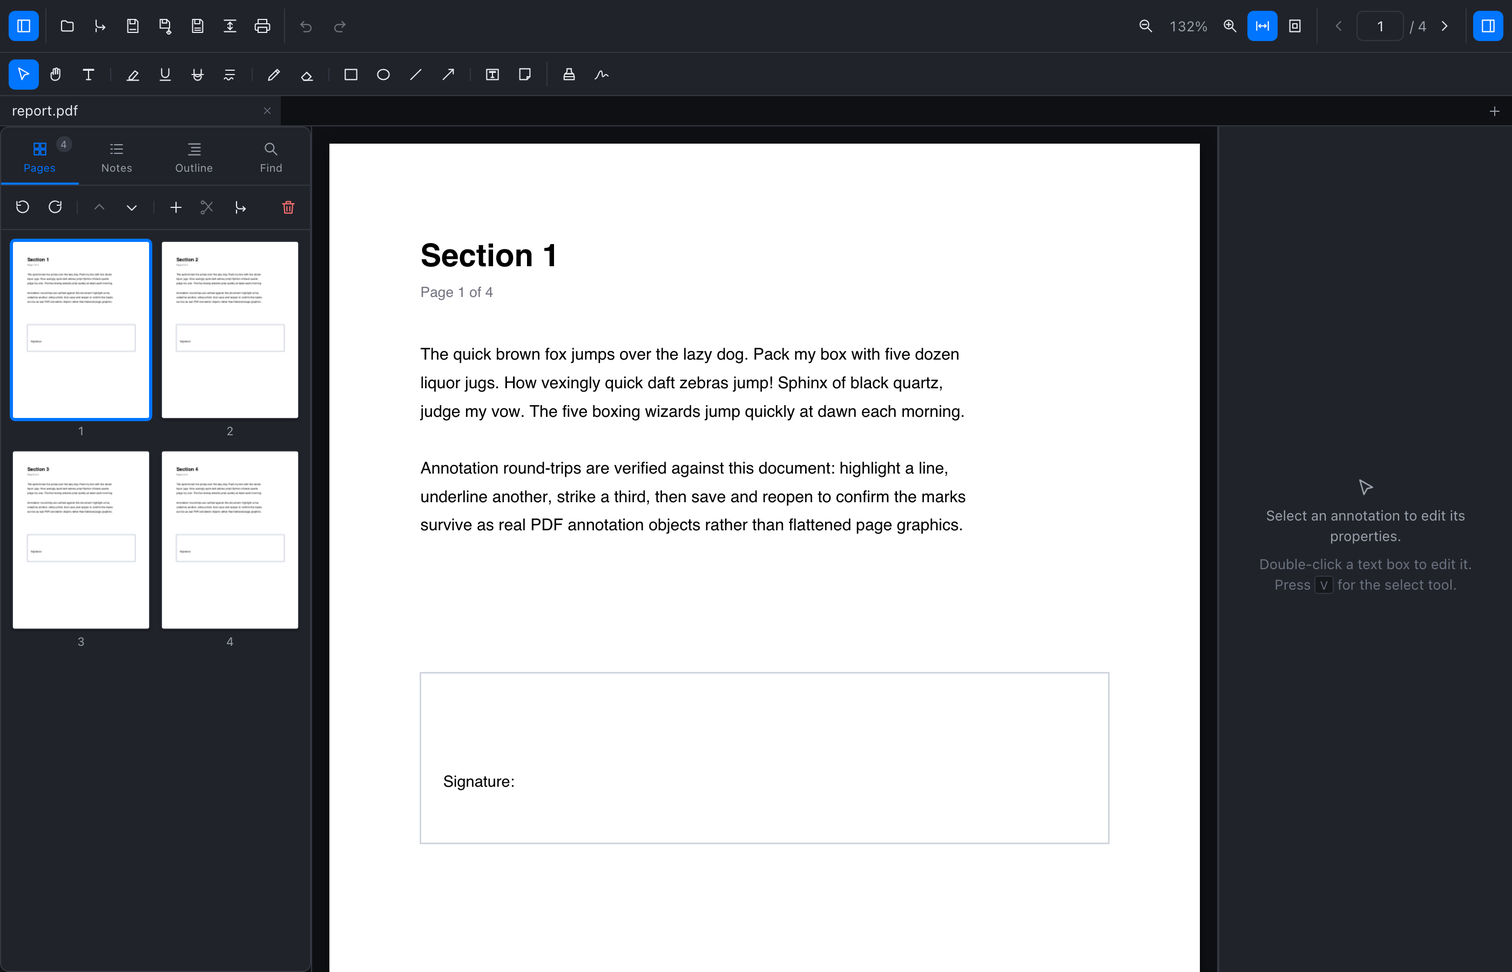
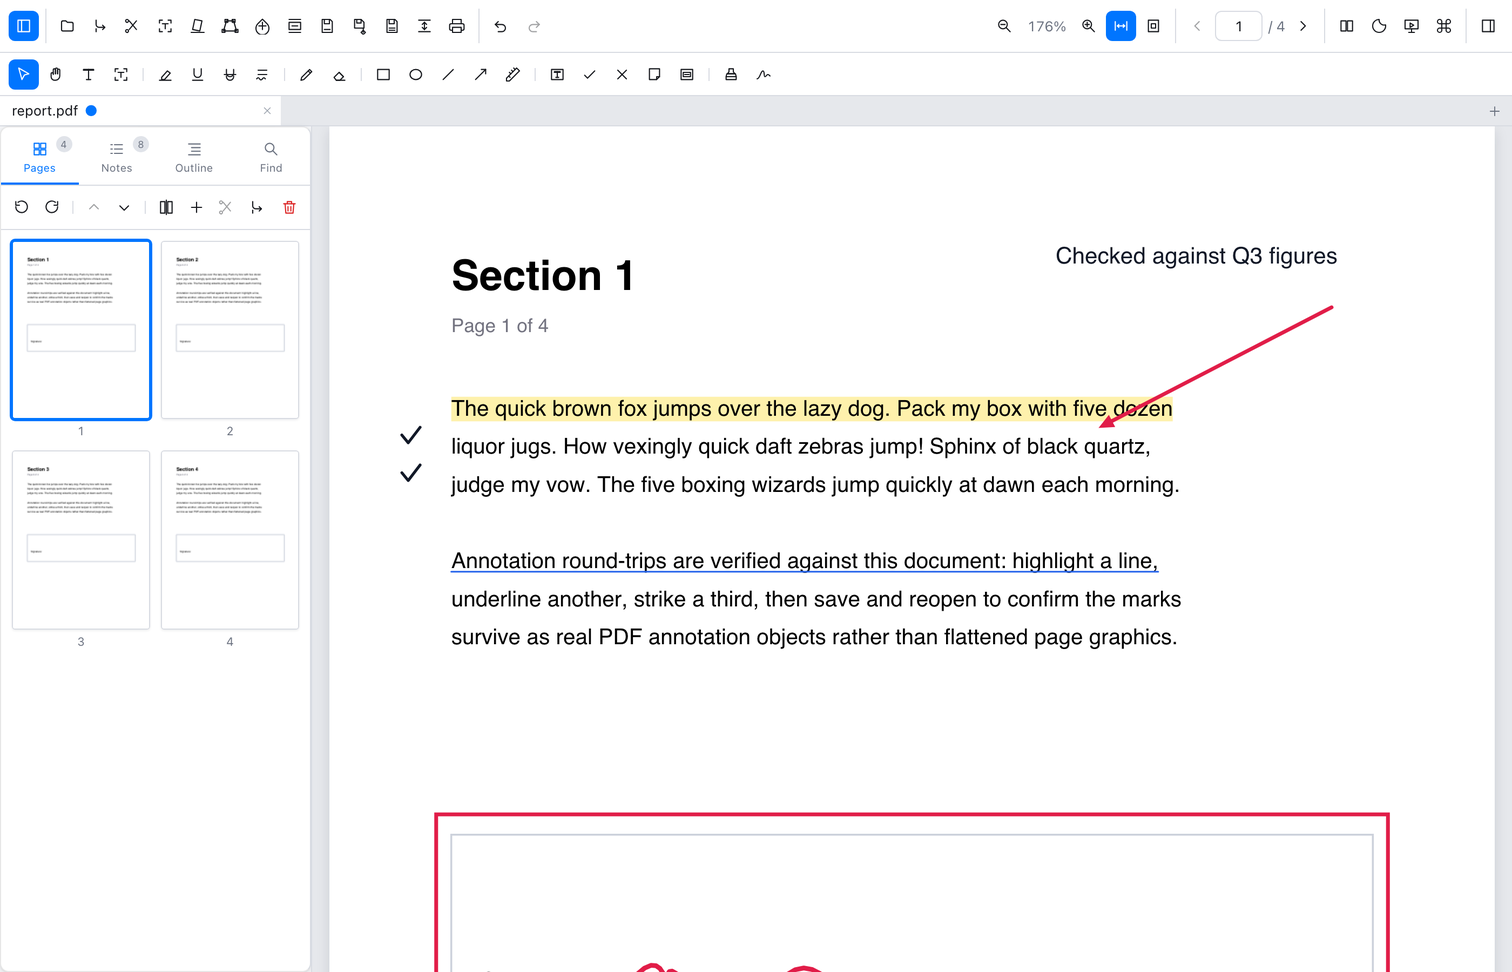
docs: Update README and showcase for 1.0.2
Covers everything since 0.5.1: OCR and searchable scans, straightening and
perspective correction, true redaction, filling printed forms, annotation
editing and defaults, workstation tools, and automatic updates. Replaces
the showcase, where three cards shared one image, with eight current
screenshots, and corrects the shortcut and download tables.

diff --git a/README.md b/README.md
@@ -1,9 +1,9 @@
 # VrushPDF
 
 <p align="center">
-  <strong>A blazingly fast, lightweight, and privacy-first desktop PDF editor & viewer.</strong>
+  <strong>A fast, lightweight, privacy-first desktop PDF editor for macOS, Windows and Linux.</strong>
   <br />
-  <em>Native look and feel on macOS, Windows, and Linux. Zero bloat. 100% offline.</em>
+  <em>Annotate, fill and sign, make scans searchable, and assemble documents, entirely offline.</em>
 </p>
 
 <p align="center">
@@ -15,50 +15,80 @@
 </p>
 
 <p align="center">
-  <img src="docs/screenshots/01-editor-overview.png" alt="VrushPDF Workspace" width="880" />
+  <img src="docs/screenshots/02-markup-studio.png" alt="VrushPDF annotating a document" width="880" />
 </p>
 
 ---
 
-## 📸 Interface & Feature Showcase
+## 🆕 New in 1.0
+
+- **🔎 OCR, built in and offline**: make scanned PDFs searchable and selectable, or drag a box over any scan to copy its text. English, German, French, Spanish, Italian and Dutch.
+- **📐 Scan clean-up**: straighten crooked scans automatically, and correct the perspective of phone photos of documents, with the corners found for you.
+- **☑ Fill any form**: tick and cross marks and text boxes for printed forms that have no fillable fields.
+- **✍ Faster annotating**: resize anything with handles, copy and paste annotations, type exact sizes, and save any annotation's look as the default for its kind.
+- **🔄 Automatic updates**: VrushPDF checks for new versions and installs them for you.
+
+---
+
+## 📸 Feature Showcase
 
 <div align="center">
 
 <table>
   <tr>
     <td align="center" width="50%">
-      <a href="docs/screenshots/01-editor-overview.png"><img src="docs/screenshots/01-editor-overview.png" alt="Document Viewer & Workspace" /></a>
+      <a href="docs/screenshots/01-editor-overview.png"><img src="docs/screenshots/01-editor-overview.png" alt="Document viewer and workspace" /></a>
       <br />
-      <b>📖 Document Viewer & Multi-Tab Workspace</b>
-      <p><em>Continuous virtualized scrolling, drag-and-drop thumbnail sidebar, whole-document search</em></p>
+      <b>📖 Viewer & Multi-Tab Workspace</b>
+      <p><em>Smooth continuous scrolling, page thumbnails with drag-and-drop reordering, search and bookmarks</em></p>
     </td>
     <td align="center" width="50%">
-      <a href="docs/screenshots/02-markup-studio.png"><img src="docs/screenshots/02-markup-studio.png" alt="Annotation & Markup Studio" /></a>
+      <a href="docs/screenshots/02-markup-studio.png"><img src="docs/screenshots/02-markup-studio.png" alt="Annotation and markup studio" /></a>
       <br />
       <b>✍ Annotation & Markup Studio</b>
-      <p><em>Real text highlight, smooth pen, geometric shapes, sticky notes & live properties inspector</em></p>
+      <p><em>Highlights, shapes, arrows, text boxes, ticks and freehand ink, with a live properties panel</em></p>
     </td>
   </tr>
   <tr>
     <td align="center" width="50%">
-      <a href="docs/screenshots/03-forms-and-signatures.png"><img src="docs/screenshots/03-forms-and-signatures.png" alt="Interactive Forms & Reusable Signatures" /></a>
+      <a href="docs/screenshots/03-forms-and-stamps.png"><img src="docs/screenshots/03-forms-and-stamps.png" alt="Forms, ticks, signatures and stamps" /></a>
       <br />
-      <b>🖋 Interactive Forms & Signatures</b>
-      <p><em>Fill text fields, checkboxes, dropdowns, and place reusable drawn signatures and stamps</em></p>
+      <b>🖋 Forms, Signatures & Stamps</b>
+      <p><em>Fill interactive fields, tick and cross printed boxes, sign, and stamp</em></p>
     </td>
     <td align="center" width="50%">
-      <a href="docs/screenshots/04-pdf-optimizer.png"><img src="docs/screenshots/04-pdf-optimizer.png" alt="Adobe Acrobat-style PDF Optimizer" /></a>
+      <a href="docs/screenshots/04-ocr.png"><img src="docs/screenshots/04-ocr.png" alt="OCR: copy text from a scan" /></a>
+      <br />
+      <b>🔎 OCR: Searchable Scans</b>
+      <p><em>Recognise text on scanned pages, or drag a box to copy text out of any scan</em></p>
+    </td>
+  </tr>
+  <tr>
+    <td align="center" width="50%">
+      <a href="docs/screenshots/05-scan-correction.png"><img src="docs/screenshots/05-scan-correction.png" alt="Perspective correction of a photographed document" /></a>
+      <br />
+      <b>📐 Straighten & Correct Perspective</b>
+      <p><em>Fix tilted scans automatically; turn phone photos into flat, upright pages</em></p>
+    </td>
+    <td align="center" width="50%">
+      <a href="docs/screenshots/06-redaction.png"><img src="docs/screenshots/06-redaction.png" alt="True redaction" /></a>
+      <br />
+      <b>⬛ True Redaction</b>
+      <p><em>Removes exactly what's under each box from the file: words, image pixels and drawings</em></p>
+    </td>
+  </tr>
+  <tr>
+    <td align="center" width="50%">
+      <a href="docs/screenshots/07-pdf-optimizer.png"><img src="docs/screenshots/07-pdf-optimizer.png" alt="PDF optimizer" /></a>
       <br />
       <b>🗜 PDF Optimizer & Compression</b>
-      <p><em>SIMD image downsampling (72–300 DPI), stream cleanup, standard font unembedding</em></p>
+      <p><em>Image downsampling (72–300 DPI), stream clean-up, font unembedding, one-click presets</em></p>
     </td>
-  </tr>
-  <tr>
-    <td align="center" colspan="2">
-      <a href="docs/screenshots/05-dark-mode-liquidglass.png"><img src="docs/screenshots/05-dark-mode-liquidglass.png" alt="Dark Mode & Native Desktop Theming" /></a>
+    <td align="center" width="50%">
+      <a href="docs/screenshots/08-dark-mode.png"><img src="docs/screenshots/08-dark-mode.png" alt="Dark mode" /></a>
       <br />
-      <b>🌙 Dark Mode & Cross-Platform Native Theming</b>
-      <p><em>Tailored design systems: macOS LiquidGlass, Windows Fluent, GNOME Adwaita & KDE Breeze</em></p>
+      <b>🌙 Dark Mode & Native Theming</b>
+      <p><em>Follows your system's light or dark appearance, with styling for macOS, Windows, GNOME and KDE</em></p>
     </td>
   </tr>
 </table>
@@ -69,60 +99,69 @@
 
 ## 🚀 Why VrushPDF?
 
-Most modern PDF editors are either slow, cloud-tethered Electron apps that chew through gigabytes of RAM, or expensive software charging recurring monthly subscriptions. 
+Most PDF editors are either slow, cloud-tethered apps that use gigabytes of memory, or expensive software with monthly subscriptions. **VrushPDF** is built to be different:
 
-**VrushPDF** is engineered from the ground up to be different:
-
-- **⚡ Blazing Native Performance**: Built on **Tauri 2**, **Rust**, and **Svelte 5**. Instant startup, smooth 60+ FPS scrolling, and minimal memory usage.
-- **🛡 True Non-Destructive Interoperability**: Annotations are written as **standard PDF annotation objects** with real appearance streams (`/Annots`). Your highlights, notes, and drawings stay fully editable in VrushPDF *and* industry-standard viewers like Apple Preview, Adobe Acrobat, and Google Chrome — nothing is flattened or rasterized into background graphics unless you choose to.
-- **🎨 Native on Every Desktop**: Features tailored platform styling — **LiquidGlass** on macOS, **Fluent Design System 2** on Windows, **Adwaita / Libadwaita** on GNOME, and **Breeze** on KDE Plasma.
-- **🔒 100% Private & Fully Offline**: Your sensitive documents never leave your machine. No telemetry, no background network calls, no cloud tracking.
-- **💰 Fair, Transparent Pricing**: No recurring subscriptions. A 14-day fully featured free trial followed by a single, affordable one-time purchase.
+- **⚡ Native performance**: built on **Tauri 2**, **Rust** and **Svelte 5**. Starts instantly, scrolls smoothly and uses little memory.
+- **🛡 Standard, editable annotations**: annotations are saved as **real PDF annotation objects** with proper appearances. They stay editable in VrushPDF *and* in Apple Preview, Adobe Acrobat and Google Chrome; nothing is flattened into the page unless you choose to.
+- **🔒 Private and fully offline**: your documents never leave your computer. No telemetry, no cloud, no account. Even OCR runs locally.
+- **🎨 At home on every desktop**: styling tailored to macOS, Windows (Fluent), GNOME (Adwaita) and KDE Plasma (Breeze).
+- **💰 Fair pricing**: no subscription. A 14-day fully featured trial, then a single one-time purchase.
 
 ---
 
 ## ✨ Features at a Glance
 
-### 📖 Document Viewing & Navigation
-- **Multi-Document Tabs**: Work with multiple PDFs side-by-side with independent zoom, scroll positions, and undo histories.
-- **Continuous Virtualized Scrolling**: Smooth, responsive page rendering with fit-width, fit-page, and granular stepped zoom.
-- **Whole-Document Search**: High-performance text search with exact 2D affine matrix highlight positioning across rotated pages and vertical text runs.
-- **Sidebar & Outlines**: Interactive thumbnail grid with drag-and-drop page reordering, table of contents bookmark navigation, and resizable split views.
-- **Password-Protected PDFs**: Seamless decryption on open and automatic, secure **AES-128 re-encryption** upon saving.
+### 📖 Viewing & Navigation
+- **Multi-document tabs** with their own zoom, scroll position and undo history.
+- **Continuous scrolling**, fit-width and fit-page zoom, single or **two-page spreads** (with or without a cover page).
+- **Reading filters** (dark, sepia, inverted) and a full-screen **presentation mode** (`F5`).
+- **Whole-document search** that also finds text in rotated pages, and **bookmarks / table of contents** navigation.
+- **Command palette** (`⌘K` / `Ctrl+K`): every tool and command, a few keystrokes away.
+- **Password-protected PDFs**: opened seamlessly and re-encrypted with AES-128 when saved.
 
-### ✍ Professional Annotation & Markup Studio
-- **Text Markup**: Real text-selection Highlight, Underline, Strikeout, and Squiggly tools.
-- **Drawing & Shapes**: Freehand Pen with smooth stroke rendering, Eraser, Rectangle, Ellipse, Line, and Arrow vector primitives.
-- **Text Boxes & Sticky Notes**: Rich text annotations and expandable comment pins with author notes.
-- **Full Style Customization**: Live palette picker, custom hex colors, opacity controls, line thickness, and stroke styling.
-- **Deep Undo/Redo**: Snapshot-based undo and redo history across all annotations and page modifications.
+### ✍ Annotation & Markup
+- **Text markup**: highlight, underline, strikeout and squiggly, from a real text selection.
+- **Drawing & shapes**: freehand pen, eraser, rectangle, ellipse, line, arrow, and a **measuring tool** with real-world units.
+- **Text boxes**: font, size, bold and italic, alignment, padding, borders and background (or white-out).
+- **Comments**: sticky notes and comments on any annotation, edited in place; a right-click menu on every page.
+- **Edit with ease**: resize any annotation with handles, **copy and paste** annotations (`⌘C` / `⌘V`), align them on the page, and type exact sizes or use a slider.
+- **Your defaults**: "Use as default" saves an annotation's look for its kind; Settings lists every kind's default style, with reset.
+- **Built for flow**: new annotations stay unselected, so you can add one after another.
+- **Deep undo and redo** across annotations and page changes.
 
-### 🖋 Signatures & Stamps
-- **Reusable Signatures**: Draw, save, and manage reusable vector signatures with quick one-click placement.
-- **Standard Dynamic Stamps**: Pre-configured stamps including *APPROVED*, *REVIEWED*, *DRAFT*, *CONFIDENTIAL*, and *FINAL*.
-- **Custom Image Stamps**: Import raster stamps (PNG, JPEG) with embedded metadata for complete round-trip editability.
+### 🔎 OCR & Scan Clean-Up
+- **Make scans searchable**: recognised text is added as an invisible text layer, so search, selection and copy work in VrushPDF and every other viewer. Pages that already have text are skipped.
+- **Copy text from a scan**: drag a box over any part of a page to copy the text in it.
+- **Six languages built in**: English, German, French, Spanish, Italian and Dutch. Sideways and upside-down pages are recognised too.
+- **Straighten crooked scans**: the tilt of each page is measured and corrected automatically.
+- **Correct perspective**: turn a phone photo of a document into a flat, upright page. The document's corners are found for you and can be adjusted by hand.
 
-### 📝 Form Filling
-- **Interactive PDF Forms**: Fill text fields, toggle checkboxes, select radio buttons, and choose from dropdowns and list boxes.
-- **Standard Compliance**: Form entries generate standard appearance streams saved directly into the PDF, rendering identically across Adobe Acrobat, Chrome, and Apple Preview.
+### 🖋 Forms, Signatures & Stamps
+- **Interactive forms**: text fields, checkboxes, radio buttons, dropdowns and list boxes, saved as standard PDF form data.
+- **Printed forms**: tick (`C`) and cross (`⇧C`) marks and text boxes fill in forms that have no fillable fields.
+- **Reusable signatures**: draw once, place anywhere.
+- **Stamps**: *APPROVED*, *REVIEWED*, *DRAFT*, *CONFIDENTIAL* and *FINAL*, or your own images.
 
-### 📄 Page Operations & Document Assembly
-- **Visual Thumbnail Reordering**: Reorder pages instantly by dragging thumbnails.
-- **Insert, Rotate & Delete**: Insert blank pages, rotate selected pages clockwise or counter-clockwise, or prune unwanted pages.
-- **PDF Merging**: Combine and append external PDF files into your active document with automatic outline tree remapping.
+### 📄 Pages & Document Assembly
+- **Reorder, insert, rotate and delete** pages from the thumbnail sidebar.
+- **Merge** other PDFs into the current one, keeping their bookmarks.
+- **Split & extract**: pull out page ranges, or split a document every *n* pages.
+- **Watermarks**, and **headers, footers & Bates numbering**.
 
-### 🗜 PDF Optimizer & Compression (Adobe Acrobat Parity)
-- **High-Performance Image Downsampling**: SIMD-accelerated Lanczos3 resampling reducing image payloads by up to 80% with customizable DPI thresholds (72, 150, 225, 300 DPI) and JPEG quality tuning.
-- **Object & Stream Flattening**: Prune unreferenced objects, strip bloated metadata trees, discard embedded thumbnails, and unembed standard 14 font streams.
-- **PDF 1.5+ Object Streams**: Maximize dictionary compaction with `/ObjStm` compression.
-- **One-Click Presets**: Quick profiles for *Standard Balanced*, *Mobile / Web*, *High-Quality Print*, and *Clean & Compact*.
+### ⬛ True Redaction
+- **Removes, not just covers**: applying a redaction deletes what lies under each box from the file itself, then draws an opaque box (with an optional label) in its place.
+- **Precise to the character**: only the words under a box go; the rest of the line, and the lines around it, stay exactly where they were.
+- **Scans too**: the covered pixels of a scanned page are blanked; the rest of the image is kept.
+- **Thorough**: text and images inside embedded graphics, drawings under a box, annotations, and form field values are all removed.
+- **Redact text or areas**: mark a selection of text (one box per line) or drag a box over any area with the Redact tool (`D`).
 
-### 🔒 Document Security & Flattened Export
-- **Flattened PDF Saving (`⌥⌘S` / `Alt+Shift+S`)**: Burn annotations, signatures, and form fields directly into base page content streams to prevent extraction or tampering.
-- **Signature Security Prompts**: Automatic safety alerts when saving signed documents unflattened, with a persistent settings toggle.
+### 🗜 Optimize, Secure & Print
+- **PDF optimizer**: image downsampling (72–300 DPI) with JPEG quality control, removal of unused objects and metadata, font unembedding, object-stream compression, and one-click presets.
+- **Flattened saving** (`⌥⌘S` / `Alt+Shift+S`): burn annotations, signatures and form fields into the page, with a reminder when saving signed documents unflattened.
+- **Native printing** (`⌘P` / `Ctrl+P`) with annotations, form values and rotations.
 
-### 🖨 Native Vector Printing
-- **Direct Native Print Pipeline (`⌘P` / `Ctrl+P`)**: Renders full-resolution vector pages with all active annotations, form values, and rotations directly through native operating system print dialogs (AppKit/PDFKit on macOS, ShellExecute on Windows, GTKLP/CUPS on Linux).
+### 🔄 Always Up to Date
+- **Automatic updates**: VrushPDF checks for new releases and installs them for you, or check any time from the menu.
 
 ---
 
@@ -132,108 +171,62 @@ VrushPDF believes in software ownership, not perpetual rental.
 
 | Plan | Price | Details |
 | :--- | :--- | :--- |
-| **14-Day Free Trial** | **Free ($0)** | All features unlocked from day one. No credit card required. No account creation. |
-| **Personal Lifetime License** | **One-Time Purchase** | Lifetime access, all future updates, offline cryptographic Ed25519 activation. Use on all your personal computers. |
+| **14-Day Free Trial** | **Free** | Every feature unlocked from day one. No credit card, no account. |
+| **Personal Lifetime License** | **One-Time Purchase** | Lifetime access and all future updates. Use it on all your personal computers. |
 
-- **No Subscription Fatigue**: Pay once, keep it forever.
-- **Completely Offline Activation**: License keys (`VRSH....`) are cryptographically verified locally on your machine via Ed25519 asymmetric signatures. The app never phones home or contacts a license server.
-- **Get a License**: Purchase securely via [Paddle Checkout](https://vrushpdf.app/buy) and activate inside the app via **VrushPDF ▸ Enter License…** (or **Help ▸ Enter License…** on Windows and Linux).
+- **No subscription**: pay once, keep it forever.
+- **Offline activation**: license keys (`VRSH.…`) are verified on your computer. The app never contacts a license server.
+- **Get a license**: buy through [Paddle Checkout](https://vrushpdf.app/buy), then activate in the app via **VrushPDF ▸ Enter License…** (macOS) or **Help ▸ Enter License…** (Windows and Linux).
 
 ---
 
 ## ⌨ Essential Keyboard Shortcuts
 
-| Shortcut (macOS) | Shortcut (Win / Linux) | Action |
+| macOS | Windows / Linux | Action |
 | :--- | :--- | :--- |
-| `⌘T` | `Ctrl+T` | New Tab |
-| `⌘W` | `Ctrl+W` | Close Tab |
 | `⌘O` | `Ctrl+O` | Open PDF |
-| `⌘S` | `Ctrl+S` | Save Changes |
-| `⌥⌘S` | `Alt+Shift+S` | Save Flattened PDF |
-| `⌥⌘O` | `Alt+Ctrl+O` | Open PDF Optimizer |
-| `⌘P` | `Ctrl+P` | Print Document |
-| `⌘F` | `Ctrl+F` | Find in Document |
-| `⌘Z` / `⇧⌘Z` | `Ctrl+Z` / `Ctrl+Y` | Undo / Redo |
-| `⌘\` | `Ctrl+\` | Toggle Thumbnail Sidebar |
-| `⌘0` | `Ctrl+0` | Fit Page to Viewport |
-| `⌥⌘0` | `Ctrl+Alt+0` | Actual Size (100%) |
-| `⇧⌘−` / `⇧⌘=` | `Ctrl+Shift+-` / `Ctrl+Shift+=` | Rotate Page Left / Right |
-| `V` / `H` | `V` / `H` | Select Tool / Pan Hand |
-| `1` / `2` / `3` / `4` | `1` / `2` / `3` / `4` | Highlight / Underline / Strikeout / Squiggly |
-| `P` / `E` | `P` / `E` | Freehand Pen / Eraser |
-| `R` / `O` / `L` / `A` | `R` / `O` / `L` / `A` | Rectangle / Ellipse / Line / Arrow |
-| `X` / `N` | `X` / `N` | Text Box / Sticky Note |
+| `⌘W` | `Ctrl+W` | Close tab |
+| `⌘S` | `Ctrl+S` | Save |
+| `⌥⌘S` | `Alt+Shift+S` | Save flattened PDF |
+| `⌥⌘O` | `Alt+Ctrl+O` | PDF optimizer |
+| `⌘P` | `Ctrl+P` | Print |
+| `⌘F` / `⌘G` | `Ctrl+F` / `Ctrl+G` | Find / find next |
+| `⌘K` | `Ctrl+K` | Command palette |
+| `⌘Z` / `⇧⌘Z` | `Ctrl+Z` / `Ctrl+Shift+Z` | Undo / redo |
+| `⌘C` / `⌘X` / `⌘V` | `Ctrl+C` / `Ctrl+X` / `Ctrl+V` | Copy / cut / paste annotations |
+| `⌘\` | `Ctrl+\` | Toggle sidebar |
+| `⌘0` / `⌥⌘0` | `Ctrl+0` / `Ctrl+Alt+0` | Fit page / actual size |
+| `F5` | `F5` | Presentation mode |
+| `V` / `H` / `T` | `V` / `H` / `T` | Select / pan / select text |
+| `1` / `2` / `3` / `4` | `1` / `2` / `3` / `4` | Highlight / underline / strikeout / squiggly |
+| `P` / `E` | `P` / `E` | Pen / eraser |
+| `R` / `O` / `L` / `A` / `M` | `R` / `O` / `L` / `A` / `M` | Rectangle / ellipse / line / arrow / measure |
+| `X` / `N` / `S` | `X` / `N` / `S` | Text box / comment / signature |
+| `D` | `D` | Redact |
+| `C` / `⇧C` | `C` / `Shift+C` | Tick / cross mark |
 
 ---
 
 ## 📦 Downloads & Installation
 
-Pre-compiled release packages are available on the [**GitHub Releases**](https://github.com/nashv/VrushPDF/releases/latest) page:
+Installers for every platform are on the [**Releases**](https://github.com/nashv/VrushPDF/releases/latest) page:
 
-| Operating System | Available Packages | Notes |
+| Operating System | Packages | Notes |
 | :--- | :--- | :--- |
-| **macOS** | `.dmg` Installer, `.app` Bundle | Universal / Apple Silicon (`arm64`) & Intel (`x86_64`). Ad-hoc signed. |
-| **Windows** | `.msi` (WiX), `-setup.exe` (NSIS) | Windows 10 / 11 (64-bit). |
-| **Linux** | `.deb`, `.rpm`, `.AppImage` | Ubuntu/Debian, Fedora/RHEL, and universal AppImage (`x86_64`). |
+| **macOS** | `.dmg` | Separate downloads for Apple Silicon (`aarch64`) and Intel (`x64`). |
+| **Windows** | `-setup.exe` (NSIS), `.msi` | Windows 10 and 11, 64-bit. |
+| **Linux** | `.AppImage`, `.deb`, `.rpm` | Universal AppImage, Debian/Ubuntu and Fedora/RHEL (`x86_64`). |
 
-### Installation Notes (Unsigned Builds)
-VrushPDF binaries are currently built without expensive proprietary enterprise developer certificates:
-- **macOS**: If Gatekeeper shows *"cannot be opened because the developer cannot be verified"*, simply **Right-Click ▸ Open** the app once, or run `xattr -cr /Applications/VrushPDF.app`.
-- **Windows**: If Microsoft Defender SmartScreen appears, click **More info ▸ Run anyway**.
-- **Linux**: For AppImages, make executable with `chmod +x VrushPDF*.AppImage` and run.
+Each release includes `SHA256SUMS.txt` to verify your download.
 
----
-
-## 🛠 Developer & Build Guide
-
-### Prerequisites
-- [Node.js](https://nodejs.org/) (v18+) & `npm`
-- [Rust](https://www.rust-lang.org/) (stable toolchain)
-- Platform dependencies (Xcode Command Line Tools on macOS, WebView2 on Windows, WebKitGTK & libsoup on Linux)
-
-### Running Locally
-```sh
-npm install
-npm run tauri dev                              # Start desktop app with hot reload
-npm run tauri dev -- -- -- path/to/sample.pdf   # Open a PDF directly on start
-```
-
-### Verification & Testing Suite
-```sh
-npm run check                                     # Svelte and TypeScript type check
-npm run verify:roundtrip                          # Headless PDF serialization & persistence tests
-npm run verify:ui                                 # Automated UI integration tests in headless Chromium
-cargo test --manifest-path src-tauri/Cargo.toml   # Native Rust backend unit tests
-cargo test --manifest-path keygen/Cargo.toml      # License keygen cryptographic tests
-npm run keygen:check                              # Diagnostic keypair integrity check
-```
-
-### Building Release Artifacts
-```sh
-npm run tauri build                               # Compile production bundle for host OS
-```
-
----
-
-## 📐 Architecture & Layout
-
-```
-src/lib/pdf/           pdf.js integration, text layer, affine search, native printing
-src/lib/annotations/   annotation model, hit-testing, appearance streams, import/export,
-                       outline tree preservation, optimizer engine (optimize.ts)
-src/lib/state/         reactive workspace stores, document state, undo history, viewer,
-                       session manager, settings, offline license state
-src/lib/styles/        platform design tokens (macOS LiquidGlass, Win Fluent, GNOME Adwaita, KDE Breeze)
-src/lib/components/    toolbar, sidebar, canvas viewer, overlay, properties inspector, dialogs
-                       (OptimizeDialog, MergeDialog, SettingsDialog, SignaturePad)
-src-tauri/src/         native filesystem, window backdrop, SIMD image downsampling (optimize.rs),
-                       AES-128 re-encryption (encrypt.rs), offline Ed25519 licensing (license.rs)
-keygen/                offline key generation CLI and cryptographic verification tool
-scripts/               automated verification suites (round-trip, UI smoke tests, fixtures)
-```
+### Installation notes (unsigned builds)
+VrushPDF is not yet signed with commercial developer certificates:
+- **macOS**: if Gatekeeper says the app *"cannot be opened because the developer cannot be verified"*, **right-click ▸ Open** it once, or run `xattr -cr /Applications/VrushPDF.app`.
+- **Windows**: if Microsoft Defender SmartScreen appears, click **More info ▸ Run anyway**.
+- **Linux**: make the AppImage executable with `chmod +x VrushPDF*.AppImage`, then run it.
 
 ---
 
 <p align="center">
-  <strong>VrushPDF</strong> — Crafting a better, faster, and truly private PDF experience.
+  <strong>VrushPDF</strong>: a faster, truly private PDF editor.
 </p>
